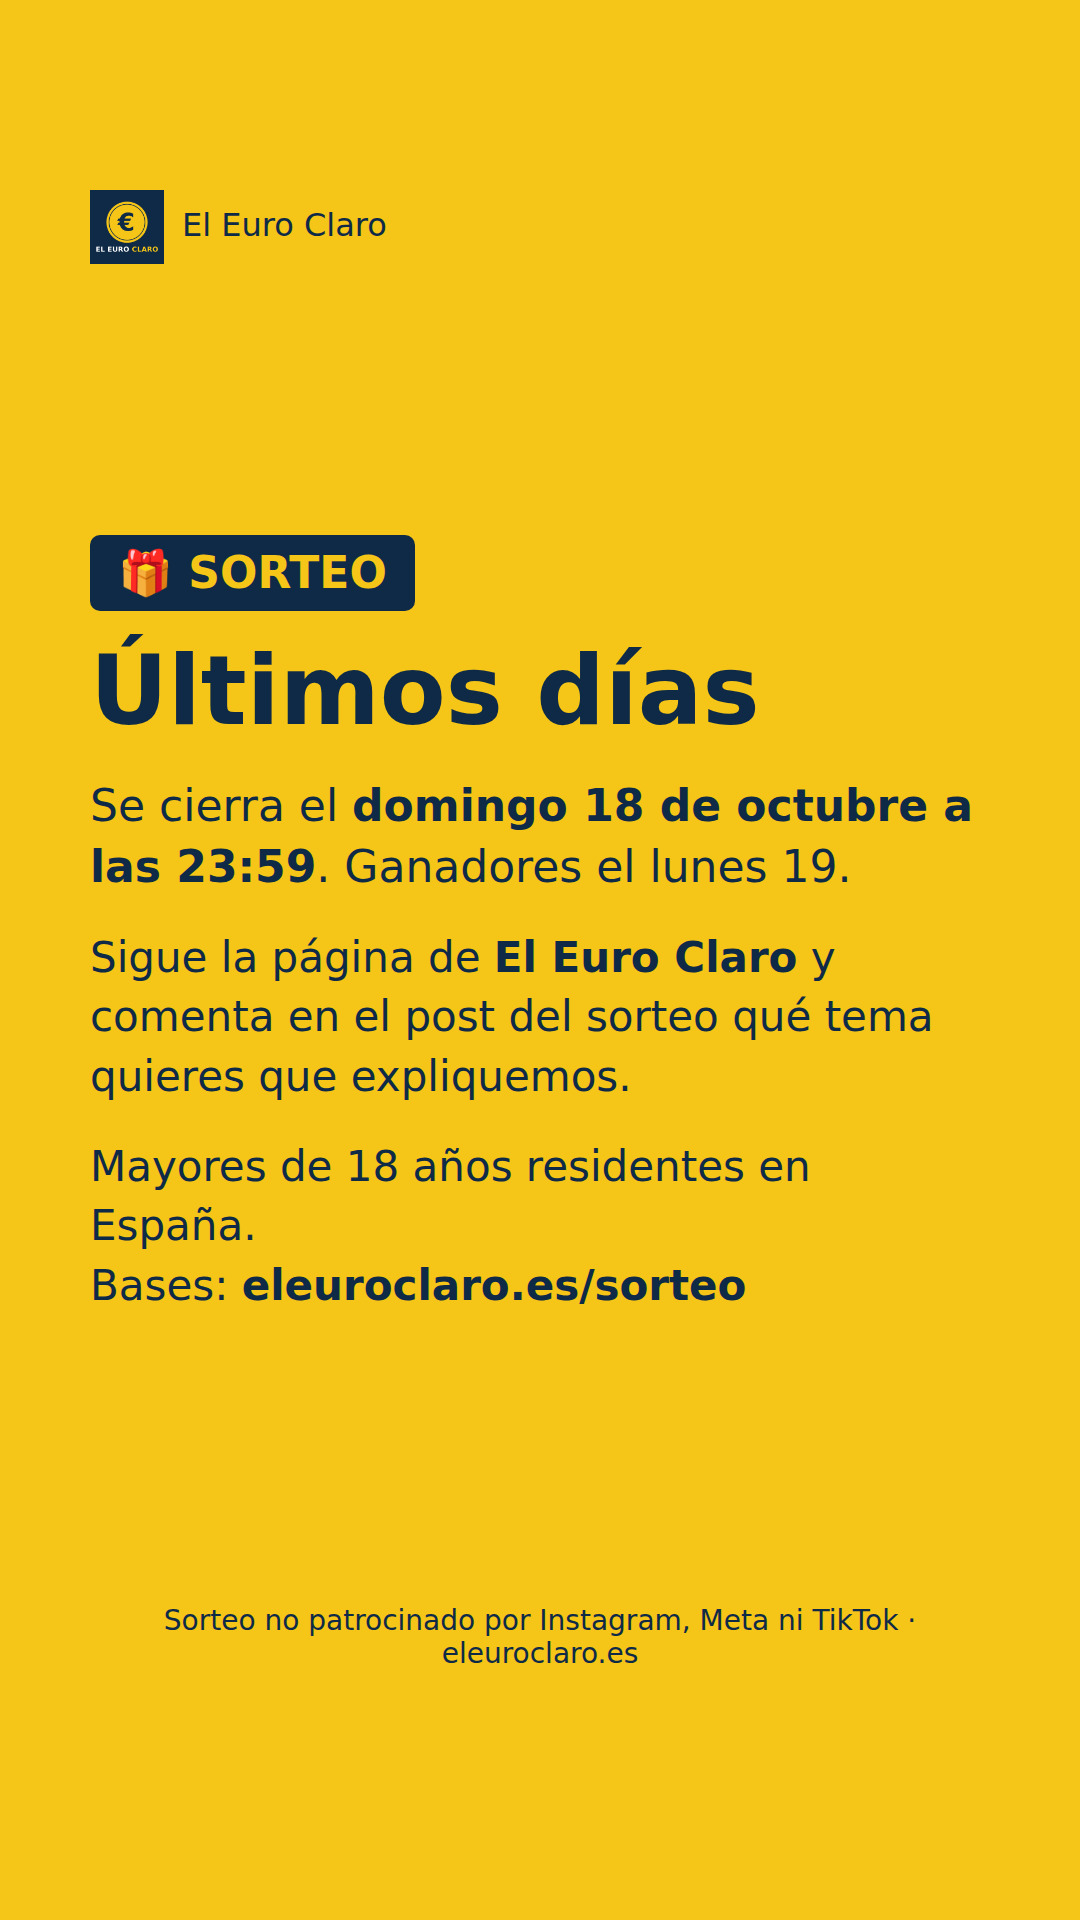
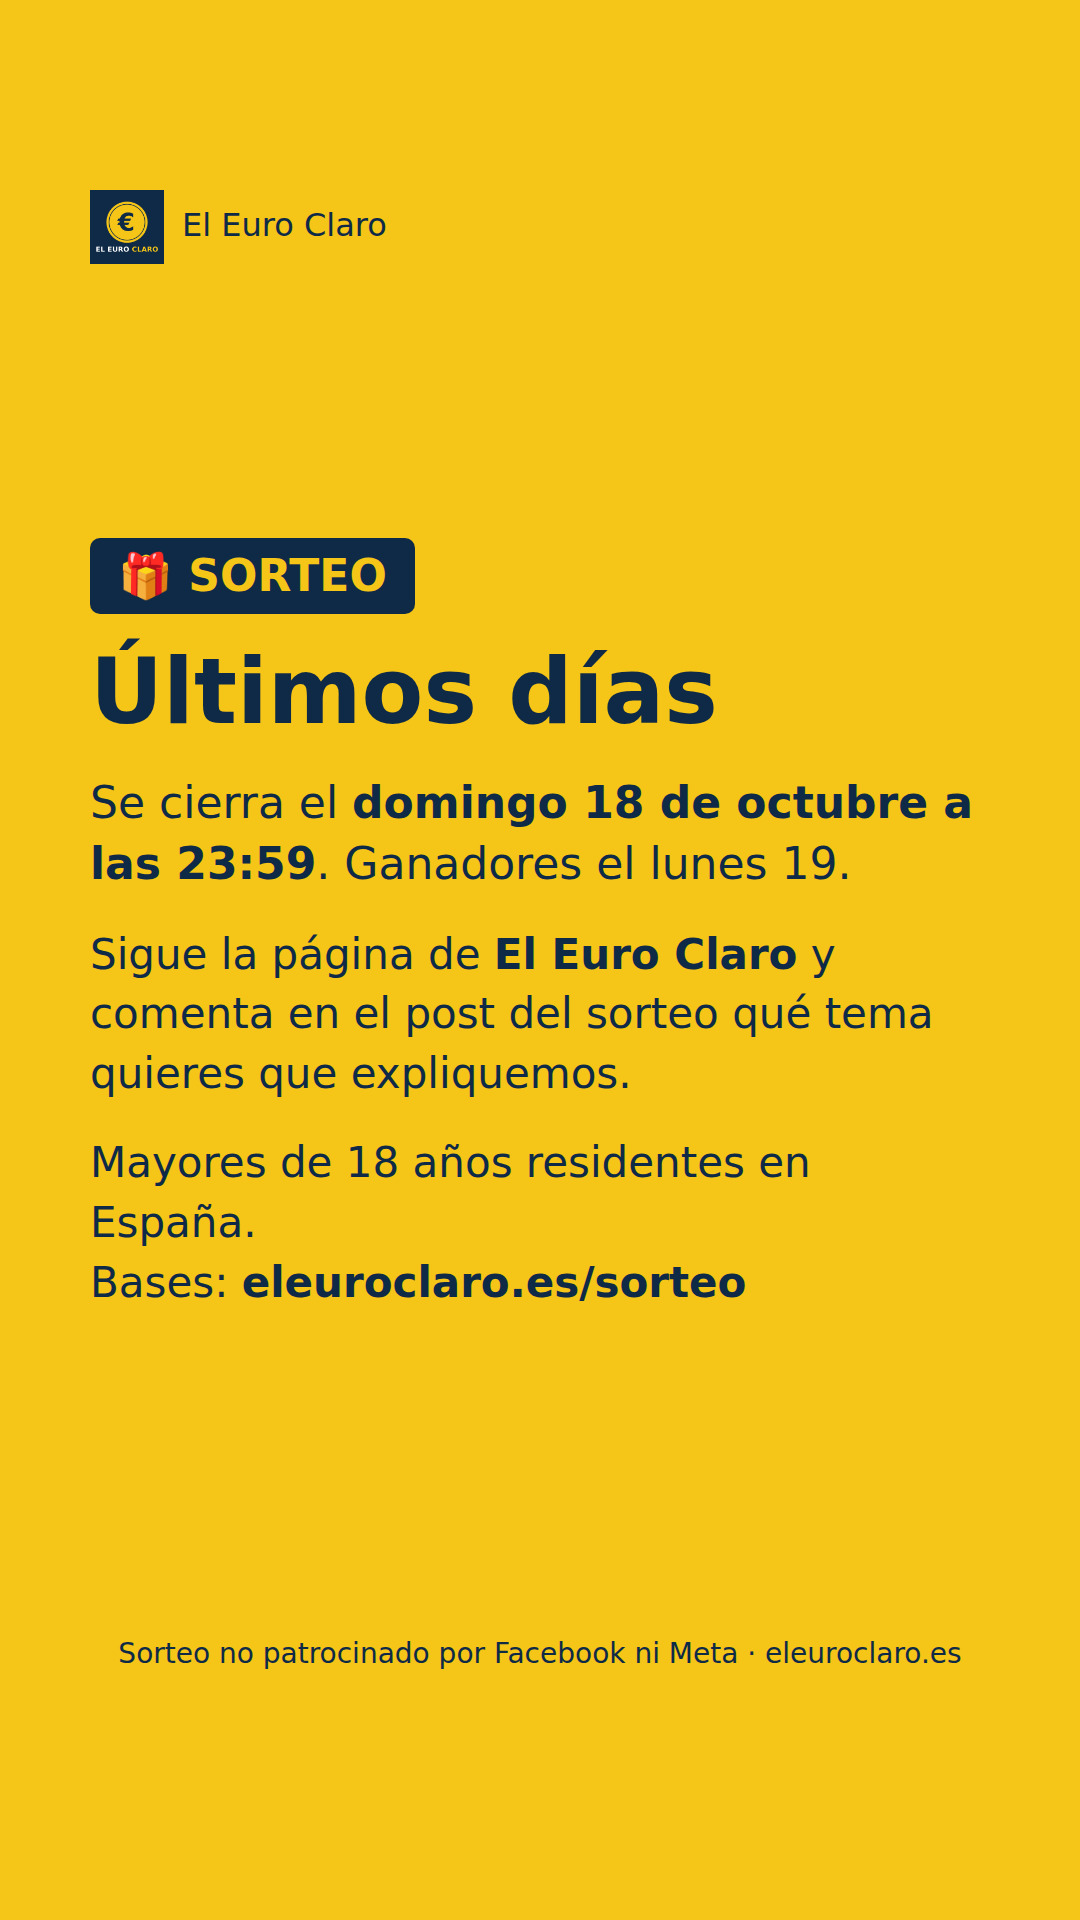
Sorteo: bases revisadas (Facebook sin etiquetas, RGPD, fiscalidad, suplentes), privacidad con sorteos y enlace en /enlaces/
Claude-Session: https://claude.ai/code/session_01ELrHES8aCY6pTkFfsH97t6

diff --git a/sorteo/index.html b/sorteo/index.html
@@ -43,7 +43,7 @@
 <p>Sorteo de 10 Kits de cuentas de casa y 10 guías «Negocia tu hipoteca» en Instagram, Facebook y TikTok, del 8 al 18 de octubre de 2026.</p>
 
 <h2>1. Organizador</h2>
-<p>Odana Ingeniería SL (CIF B13883962), C/ Can Calafat 53, nave 32, Polígono Son Oms, 07199 Palma (Illes Balears), responsable del proyecto divulgativo El Euro Claro (eleuroclaro.es). Contacto: hola@eleuroclaro.es.</p>
+<p>Odana Ingeniería SL (NIF B13883962), C/ Can Calafat 53, nave 32, Polígono Son Oms, 07199 Palma (Illes Balears), responsable del proyecto divulgativo El Euro Claro (eleuroclaro.es). Contacto: hola@eleuroclaro.es.</p>
 
 <h2>2. Gratuito</h2>
 <p>Participar es gratis y no exige ninguna compra ni pago.</p>
@@ -55,28 +55,37 @@
 <p>Desde la publicación del sorteo el jueves 8 de octubre de 2026 a las 19:00 hasta el domingo 18 de octubre de 2026 a las 23:59, hora peninsular española. No cuentan las participaciones fuera de plazo.</p>
 
 <h2>5. Cómo participar</h2>
-<p>En la publicación del sorteo de @eleuroclaro en Instagram, Facebook o TikTok: (1) seguir a @eleuroclaro en esa red; (2) comentar la publicación diciendo qué tema de economía te gustaría que expliquemos; (3) mencionar en el comentario a una persona real (no marcas ni famosos). Cada comentario con una mención distinta es una participación, con un máximo de 5 por persona sumando las tres redes.</p>
+<p>En la publicación del sorteo de El Euro Claro:</p>
+<ul>
+<li>En Instagram y TikTok: (1) seguir a @eleuroclaro en esa red; (2) comentar la publicación diciendo qué tema de economía te gustaría que expliquemos; (3) mencionar en el comentario a una persona real (no marcas ni famosos). Cada comentario con una persona mencionada distinta es una participación. Un comentario con varias menciones cuenta como una sola.</li>
+<li>En Facebook: (1) seguir la página El Euro Claro; (2) comentar la publicación diciendo qué tema de economía te gustaría que expliquemos. En Facebook no hay que mencionar a nadie y cuenta una sola participación por persona.</li>
+</ul>
+<p>Cada persona tiene como máximo 5 participaciones sumando las tres redes. Para que una participación cuente, el comentario tiene que seguir publicado y tu cuenta tiene que seguir a El Euro Claro en esa red cuando se haga el sorteo. Los comentarios borrados no cuentan. Puedes participar aunque tu cuenta sea privada.</p>
 
 <h2>6. Premios</h2>
 <p>20 premios digitales: 10 «Kit de cuentas de casa» (hoja de cálculo, precio de venta 19 €, IVA incluido) y 10 guías «Negocia tu hipoteca» (PDF, precio de venta 9 €, IVA incluido). Cada premio se entrega con un código de un solo uso para descargarlo gratis en eleuroclaro.gumroad.com. Cada persona puede ganar como máximo un premio. Los premios no se pueden cambiar por dinero ni por otro producto, ni ceder.</p>
 
 <h2>7. Sorteo y suplentes</h2>
-<p>El lunes 19 de octubre de 2026 a las 20:00 se eligen al azar los ganadores entre las participaciones válidas de las tres redes, con una herramienta de sorteo de comentarios. Los 10 primeros reciben un kit y los 10 siguientes una guía. Se eligen además 5 suplentes.</p>
+<p>El lunes 19 de octubre de 2026 a las 20:00 juntamos en una sola lista numerada las participaciones válidas de las tres redes (punto 5) y elegimos al azar, con un generador de números aleatorios, 20 ganadores y 5 suplentes, en este orden. Los 10 primeros ganadores reciben un kit y los 10 siguientes una guía. Si sale una persona que ya ha ganado o una participación que no cumple estas bases, no cuenta y se saca otro número. Los suplentes sustituyen, por orden, a cualquier ganador que no conteste a tiempo o no cumpla las bases, y reciben el premio del ganador al que sustituyen. Si no hay participaciones suficientes o se agotan los suplentes, los premios que sobren quedan desiertos.</p>
 
 <h2>8. Aviso a los ganadores</h2>
-<p>Los nombres de usuario de los ganadores se publican en las redes de @eleuroclaro y se avisa a cada uno por mensaje privado desde @eleuroclaro. Cada ganador tiene 7 días (hasta el lunes 26 de octubre de 2026 a las 20:00) para contestar; si no, el premio pasa al siguiente suplente. @eleuroclaro nunca pide contraseñas, datos bancarios ni pagos para entregar un premio: cualquier mensaje que lo haga es un fraude.</p>
+<p>El lunes 19 de octubre de 2026 publicamos los nombres de usuario de los ganadores en las redes de El Euro Claro, respondemos a su comentario del sorteo y, cuando la red lo permite, les escribimos por mensaje privado. Si has ganado y no te llega nuestro mensaje, escríbenos por mensaje privado a El Euro Claro o a hola@eleuroclaro.es. Cada ganador tiene hasta el lunes 26 de octubre de 2026 a las 20:00 para contestar; cada suplente, 7 días desde que le avisemos. Si no contesta a tiempo o no cumple estas bases, el premio pasa al siguiente suplente.</p>
+<p>Para recibir el premio, el ganador nos confirma que tiene 18 años o más y que reside en España, y nos envía a hola@eleuroclaro.es su nombre, apellidos y NIF, porque la ley nos obliga a informar de los premios a la Agencia Tributaria. Si hay dudas razonables sobre la edad o la residencia, podremos pedirle un documento que lo acredite, en el que puede tapar los datos que no hagan falta; lo borramos en cuanto esté comprobado.</p>
+<p>El Euro Claro nunca pide contraseñas, datos bancarios ni pagos para entregar un premio: cualquier mensaje que lo haga es un fraude.</p>
 
 <h2>9. Fiscalidad</h2>
-<p>Los premios están sujetos a la normativa fiscal vigente. Por su valor, inferior a 300 €, no se practica retención del IRPF.</p>
+<p>Para el ganador, el premio es una ganancia patrimonial sujeta al IRPF por su valor de mercado (19 € el kit y 9 € la guía). Como no supera 300 €, el organizador no practica ingreso a cuenta (art. 75.3.f del Reglamento del IRPF), pero informará de los premios a la Agencia Tributaria. El organizador asume los impuestos que gravan la organización del sorteo.</p>
 
 <h2>10. Redes sociales</h2>
-<p>Ni Instagram, ni Facebook, ni Meta Platforms, ni TikTok patrocinan, avalan ni administran este sorteo, ni están asociados a él. Los participantes eximen a estas plataformas de toda responsabilidad. Los datos los recibe el organizador, no la plataforma.</p>
+<p>Ni Instagram, ni Facebook, ni Meta Platforms, ni TikTok patrocinan, avalan ni administran este sorteo, ni están asociados a él. Cada participante exime a estas plataformas de toda responsabilidad. El organizador trata como responsable los datos necesarios para gestionar el sorteo (punto 11); cada red social trata los datos de tu cuenta y tus comentarios según su propia política de privacidad.</p>
 
 <h2>11. Protección de datos</h2>
-<p>Responsable: Odana Ingeniería SL. Finalidad: gestionar el sorteo, comprobar que se cumplen estas bases, contactar con los ganadores y entregar los premios; el nombre de usuario de los ganadores se publicará en las redes de @eleuroclaro. Legitimación: tu participación voluntaria. Conservación: el tiempo necesario para gestionar el sorteo y atender posibles reclamaciones. Los datos de los participantes no se usan para la newsletter ni para otros fines. Derechos: escribiendo a hola@eleuroclaro.es. Más información en <a href="/privacidad.html">eleuroclaro.es/privacidad.html</a>.</p>
+<p>Responsable: Odana Ingeniería SL (NIF B13883962), C/ Can Calafat 53, nave 32, 07199 Palma; hola@eleuroclaro.es. Finalidad: gestionar tu participación, comprobar que cumples estas bases, hacer el sorteo, publicar el nombre de usuario de los ganadores en las redes de El Euro Claro, avisarles, entregarles el premio y cumplir nuestras obligaciones fiscales. Datos: tu nombre de usuario, tus comentarios en la publicación del sorteo y los usuarios que menciones; si ganas, los mensajes que nos envíes y tu nombre, apellidos y NIF. Base jurídica: la ejecución de estas bases, que aceptas al participar (art. 6.1.b RGPD), y, para el nombre y el NIF de los ganadores, una obligación legal (art. 6.1.c RGPD); sin estos datos no podemos validar tu participación ni darte el premio.</p>
+<p>Destinatarios: no cedemos tus datos a nadie, salvo obligación legal (por ejemplo, a la Agencia Tributaria). Para descargar el premio, Gumroad, Inc. (EE. UU.) te pedirá un correo electrónico; lo trata según su propia política de privacidad y nos lo comunica con los datos del pedido, como en una compra. Si mencionas a otra persona, solo usamos su nombre de usuario para comprobar que tu participación es válida: no la contactamos ni la añadimos a ninguna lista. Menciona solo a personas a las que no les importe aparecer en tu comentario.</p>
+<p>Conservación: borramos la lista de participaciones el 30 de noviembre de 2026, y los datos de los ganadores y de la entrega de los premios cuando terminen los plazos que fija la normativa tributaria, salvo que haya una reclamación pendiente. No usamos estos datos para la newsletter ni para otros fines. Derechos: puedes pedir acceso, rectificación, supresión, oposición, limitación y portabilidad en hola@eleuroclaro.es, y reclamar ante la Agencia Española de Protección de Datos (www.aepd.es). Más información en <a href="/privacidad.html">eleuroclaro.es/privacidad.html</a>.</p>
 
 <h2>12. Otras condiciones</h2>
-<p>El organizador puede descalificar participaciones fraudulentas o que incumplan estas bases y, con causa justificada, cambiar o cancelar el sorteo, avisando en los mismos canales. Participar supone aceptar estas bases, publicadas en eleuroclaro.es/sorteo/. Se rigen por la ley española.</p>
+<p>El organizador puede descalificar participaciones fraudulentas o que incumplan estas bases. Solo puede cambiar o cancelar el sorteo por fraude generalizado, fallo técnico de las redes o fuerza mayor, y lo avisará en los mismos canales y en esta página; nunca para reducir los premios ni acortar el plazo una vez abierto. Si una red retira la publicación del sorteo, cuentan las participaciones válidas hechas en ella hasta ese momento. Participar supone aceptar estas bases, publicadas en eleuroclaro.es/sorteo/. Se rigen por la ley española.</p>
 <p><em>Publicadas el 4 de octubre de 2026.</em></p>
 </main>
 <footer class="foot"><div class="wrap"><p><a href="/">Volver a El Euro Claro</a> · © 2026 Odana Ingeniería SL</p></div></footer>

diff --git a/privacidad.html b/privacidad.html
@@ -4,7 +4,7 @@
 <meta charset="utf-8">
 <meta name="viewport" content="width=device-width, initial-scale=1, viewport-fit=cover">
 <title>Política de privacidad · El Euro Claro</title>
-<meta name="description" content="Qué datos personales trata El Euro Claro (newsletter, compras del kit, correo, redes sociales y visitas a la web), para qué, cuánto tiempo, con qué proveedores y cómo ejercer tus derechos.">
+<meta name="description" content="Qué datos personales trata El Euro Claro (newsletter, compras, correo, redes sociales, sorteos y visitas a la web), para qué, cuánto tiempo, con qué proveedores y cómo ejercer tus derechos.">
 <meta name="theme-color" content="#0e2a47">
 <meta property="og:site_name" content="El Euro Claro">
 <meta property="og:title" content="Política de privacidad · El Euro Claro">
@@ -56,22 +56,24 @@
 <thead><tr><th>Cuándo</th><th>Datos</th><th>Finalidad</th><th>Base legal</th></tr></thead>
 <tbody>
 <tr><td data-label="Cuándo">Te apuntas a la newsletter</td><td data-label="Datos">Correo electrónico y estadísticas de envío (si abres el correo y en qué enlaces pulsas)</td><td data-label="Finalidad">Enviarte la newsletter semanal, que puede incluir contenidos patrocinados marcados como publicidad, y saber qué temas interesan más</td><td data-label="Base legal">Tu consentimiento (art. 6.1.a RGPD)</td></tr>
-<tr><td data-label="Cuándo">Compras el Kit de cuentas de casa</td><td data-label="Datos">Nombre, correo, país y datos de la compra que nos pasa Gumroad (nunca el número de tu tarjeta)</td><td data-label="Finalidad">Atenderte si tienes dudas con el kit, tramitar devoluciones y cumplir nuestras obligaciones contables</td><td data-label="Base legal">La compra que haces (art. 6.1.b RGPD) y nuestras obligaciones legales (art. 6.1.c RGPD)</td></tr>
+<tr><td data-label="Cuándo">Compras el Kit de cuentas de casa o la guía «Negocia tu hipoteca»</td><td data-label="Datos">Nombre, correo, país y datos de la compra que nos pasa Gumroad (nunca el número de tu tarjeta)</td><td data-label="Finalidad">Atenderte si tienes dudas con lo que has comprado, tramitar devoluciones y cumplir nuestras obligaciones contables</td><td data-label="Base legal">La compra que haces (art. 6.1.b RGPD) y nuestras obligaciones legales (art. 6.1.c RGPD)</td></tr>
 <tr><td data-label="Cuándo">Nos escribes por correo</td><td data-label="Datos">Nombre, correo y lo que nos cuentes</td><td data-label="Finalidad">Responderte y, si eres una marca, preparar y gestionar la colaboración</td><td data-label="Base legal">Tu consentimiento al escribirnos y, con marcas, las medidas precontractuales o el contrato (art. 6.1.a y 6.1.b RGPD)</td></tr>
 <tr><td data-label="Cuándo">Comentas o nos escribes en redes sociales</td><td data-label="Datos">Nombre de usuario, comentarios y mensajes</td><td data-label="Finalidad">Responderte y moderar los comentarios de nuestros perfiles</td><td data-label="Base legal">Nuestro interés legítimo en atender a quien nos sigue (art. 6.1.f RGPD)</td></tr>
+<tr><td data-label="Cuándo">Participas en un sorteo</td><td data-label="Datos">Nombre de usuario, tus comentarios en la publicación del sorteo y las cuentas que mencionas en ellos; si ganas, los mensajes que nos envíes y tu nombre, apellidos y NIF</td><td data-label="Finalidad">Gestionar el sorteo según sus bases, comprobar que las participaciones son válidas, publicar el nombre de usuario de los ganadores, entregarles el premio e informar de los premios a la Agencia Tributaria</td><td data-label="Base legal">La aceptación de las bases del sorteo al participar (art. 6.1.b RGPD) y, para el nombre y el NIF de los ganadores, una obligación legal (art. 6.1.c RGPD)</td></tr>
 <tr><td data-label="Cuándo">Visitas esta web</td><td data-label="Datos">Dirección IP y datos técnicos de la conexión (página visitada, web de procedencia, navegador y país)</td><td data-label="Finalidad">Mostrarte la web, protegerla frente a ataques y contar las visitas de forma agregada</td><td data-label="Base legal">Nuestro interés legítimo en que la web funcione y sea segura (art. 6.1.f RGPD)</td></tr>
 </tbody>
 </table></div>
 <p>El formulario de la portada no guarda tu correo en esta web: te lleva a la página de alta de nuestra plataforma de envíos para completar la suscripción. Esta web no usa cookies; las visitas se cuentan con una herramienta que no las necesita (más detalles en la <a href="cookies.html">política de cookies</a>).</p>
-<p>El kit lo vende Gumroad, Inc. (EE. UU.): es quien te cobra, emite el recibo y se encarga del IVA. Gumroad trata como responsable los datos que le das al comprar, incluidos los de pago, según <a href="https://gumroad.com/privacy" rel="noopener">su política de privacidad</a>, y nos pasa los datos de la compra que indicamos en la tabla. Comprar el kit no te apunta a la newsletter.</p>
+<p>El kit y la guía los vende Gumroad, Inc. (EE. UU.): es quien te cobra, emite el recibo y se encarga del IVA. Gumroad trata como responsable los datos que le das al comprar, incluidos los de pago, según <a href="https://gumroad.com/privacy" rel="noopener">su política de privacidad</a>, y nos pasa los datos de la compra que indicamos en la tabla. Comprar en Gumroad, o canjear allí el premio de un sorteo, no te apunta a la newsletter.</p>
 <p>No vendemos tus datos ni los cedemos a anunciantes: los patrocinadores nunca reciben la lista de suscriptores. No tomamos decisiones automatizadas sobre ti ni elaboramos perfiles con tus datos.</p>
 
 <h2>Cuánto tiempo los guardamos</h2>
 <ul>
 <li>Newsletter: hasta que te des de baja.</li>
-<li>Compras del kit: el tiempo necesario para atender tus dudas y, si la pides, la devolución. Después, solo guardamos los datos de la venta que exige nuestra contabilidad, durante seis años (artículo 30 del Código de Comercio).</li>
+<li>Compras: el tiempo necesario para atender tus dudas y, si la pides, la devolución. Después, solo guardamos los datos de la venta que exige nuestra contabilidad, durante seis años (artículo 30 del Código de Comercio).</li>
 <li>Correos: el tiempo necesario para responderte. Si de ahí sale una colaboración, mientras dure y, después, durante los plazos legales (por ejemplo, seis años para la correspondencia y la documentación mercantil, según el artículo 30 del Código de Comercio).</li>
 <li>Redes sociales: mientras tu comentario o mensaje siga en la plataforma. Puedes borrarlo tú o pedirnos que lo quitemos de nuestros perfiles.</li>
+<li>Sorteos: la lista de participaciones, hasta el final del mes siguiente a la entrega de los premios; los datos de los ganadores, durante los plazos que fija la normativa tributaria, salvo que haya una reclamación pendiente. No usamos estos datos para la newsletter ni para nada más.</li>
 <li>Visitas a la web: los registros técnicos los guarda nuestro proveedor de alojamiento según su propia política; nosotros no tenemos acceso a ellos. Las estadísticas de visitas que vemos son agregadas y no permiten identificarte.</li>
 </ul>
 
@@ -79,7 +81,7 @@
 <p>Usamos estos proveedores, que tratan los datos por cuenta nuestra (encargados del tratamiento) con contrato conforme al artículo 28 del RGPD:</p>
 <ul>
 <li>Alojamiento de la web: GitHub, Inc. (EE. UU.), que registra la dirección IP de quien visita la web por motivos de seguridad.</li>
-<li>Dominios y reenvío de correo: Cloudflare, Inc. (EE. UU.) gestiona el DNS de nuestros dominios, lleva las visitas de eleuroclaro.com a eleuroclaro.es reenvía a nuestro buzón los mensajes que llegan a hola@eleuroclaro.es y publicidad@eleuroclaro.es, y cuenta las visitas a esta web de forma agregada y sin cookies (Cloudflare Web Analytics).</li>
+<li>Dominios y reenvío de correo: Cloudflare, Inc. (EE. UU.) gestiona el DNS de nuestros dominios, lleva las visitas de eleuroclaro.com a eleuroclaro.es, reenvía a nuestro buzón los mensajes que llegan a hola@eleuroclaro.es y publicidad@eleuroclaro.es, y cuenta las visitas a esta web de forma agregada y sin cookies (Cloudflare Web Analytics).</li>
 <li>Buzón de correo: Google (Google Workspace), donde recibimos, contestamos y guardamos los correos.</li>
 <li>Envío de la newsletter: Substack, Inc. (EE. UU.). Si además tienes cuenta en Substack, Substack trata los datos de esa cuenta como responsable, según <a href="https://substack.com/privacy" rel="noopener">su política de privacidad</a>.</li>
 </ul>

diff --git a/enlaces/index.html b/enlaces/index.html
@@ -40,6 +40,7 @@
   <p class="lema-l">La economía de tu bolsillo, en euros claros.</p>
   <ul class="lk">
     <li><a class="main" data-utm href="https://eleuroclaro.substack.com/subscribe">Guía gratis: lee tu nómina en 2 minutos<small>Te llega al apuntarte al resumen del domingo</small></a></li>
+    <li><a href="/sorteo/">🎁 Sorteo: 20 premios, del 8 al 18 de octubre<small>Bases y cómo participar</small></a></li>
     <li><a href="https://www.youtube.com/@ElEuroClaro?sub_confirmation=1" rel="noopener">Suscríbete en YouTube<small>Un vídeo cada día y el resumen del domingo</small></a></li>
     <li><a href="https://whatsapp.com/channel/0029VbE4aSn4IBhIBOKqy83S" rel="noopener">Canal de WhatsApp<small>El dato del día y el vídeo, en tu móvil</small></a></li>
     <li><a href="/euribor/#hipoteca">¿Cuánto sube tu hipoteca?<small>El Euríbor de este mes, en euros</small></a></li>
